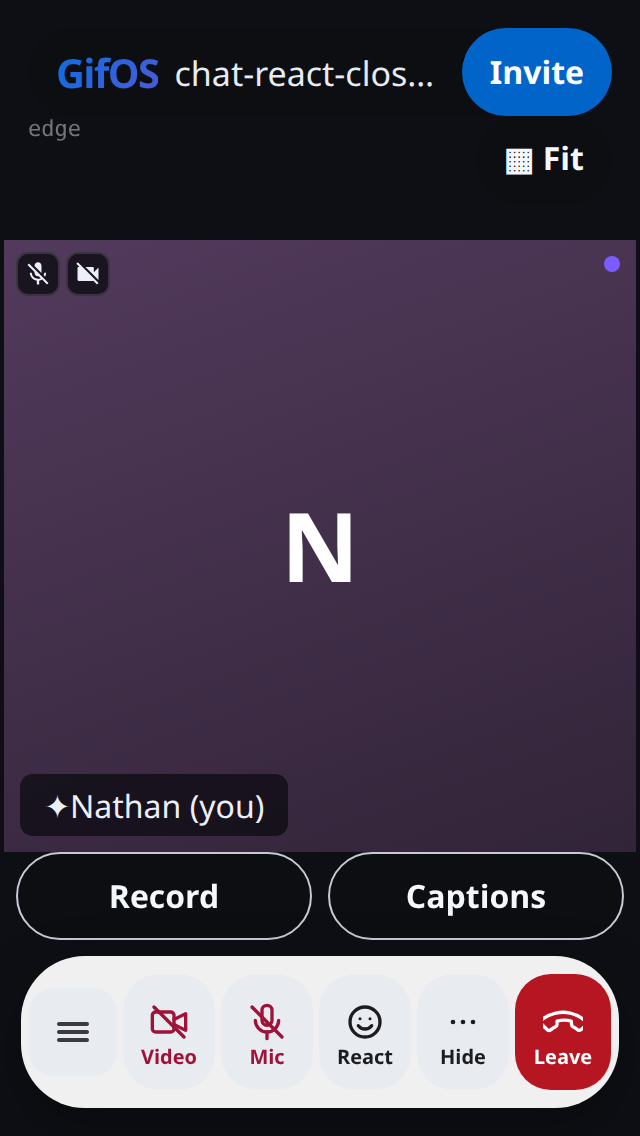
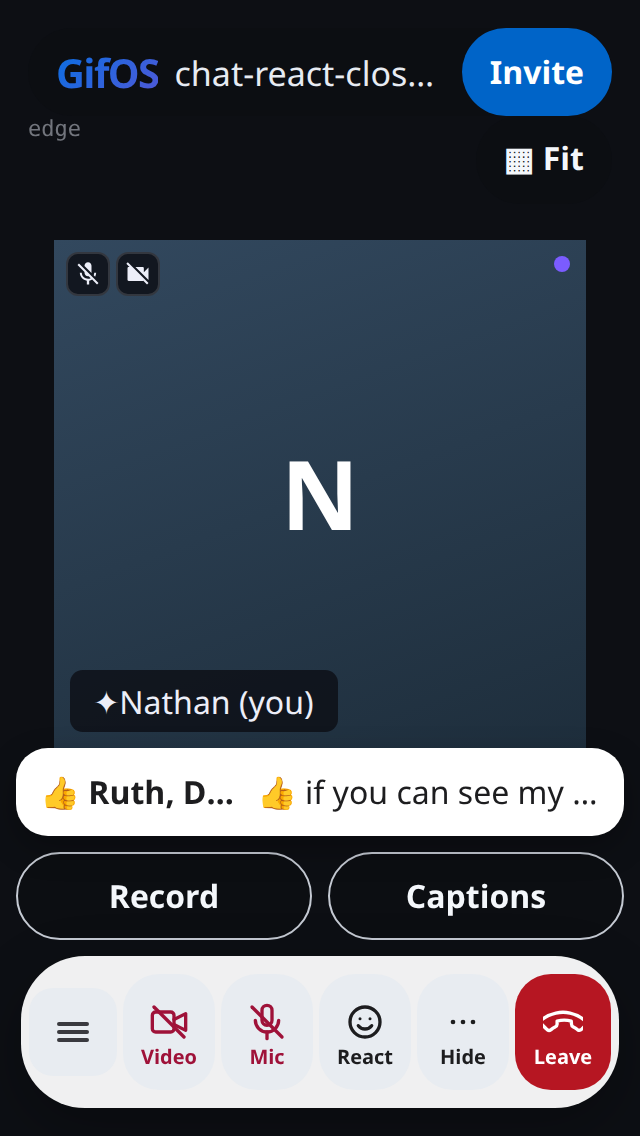
Meet: a reaction to your line shows on the call while chat is closed.
A presenter who asks '👍 if you can see my slides' and closes chat now
sees '👍 Ruth, David' with the line above the dock (three or more read
'Ruth +2'). A tap opens chat; it is not counted as a new message, and
reactions to other people's lines stay quiet. The repro gains a line from
David so he is named as he would be in a call; it still fails at 8ee30a0.
test/mobile/chat-react-closed.js passes on Chromium (test/mobile 70/70)
and WebKit (with chat-react/who/preview/badge/mention-alert).

diff --git a/run.html b/run.html
@@ -1634,6 +1634,8 @@ requestAnimationFrame(chk);setTimeout(show,1500);})();</script>
   #chatpreview.mention { background: #0064c8; color: #fff; }
   #chatpreview.mention b, #chatpreview.mention span { color: #fff; }
   #chatpreview.mention b { max-width: 58%; }
+  /* Who reacted is what the note is for; the line gives way first. */
+  #chatpreview.reacted b { flex-shrink: 0; max-width: 58%; }
   #chatbadge {
     flex: 0 0 auto;
     min-width: 44px; min-height: 44px; padding: 0 12px;
@@ -14516,6 +14518,9 @@ requestAnimationFrame(chk);setTimeout(show,1500);})();</script>
     let unread = 0;
     let lastChatLine = null;
     let mentionAlert = null;
+    // Someone reacted to your line while chat was closed: the call says so.
+    // It is not a new message, so the count stays as it was.
+    let reactAlert = null;
     let pendingReply = null;
     // Reactions: one emoji from a short list, per person, per line.
     // A frame counts only from the person it names (like taking back a line).
@@ -14560,6 +14565,20 @@ requestAnimationFrame(chk);setTimeout(show,1500);})();</script>
       }
       return true;
     }
+    function noteReactToMe(id, e, on) {
+      const line = chat.get(String(id));
+      if (!on || !line || line.byId !== myId) return;
+      if (chatPanel && chatPanel.classList.contains('open')) return;
+      const per = chatReacts.get(line.id);
+      const who = new Set(per && per.get(e) ? per.get(e) : []);
+      who.delete(myId);
+      if (!who.size) return;
+      // The call has room for two names; a third and on are "+2".
+      const names = reactorNames(who).split(', ');
+      const short = names.length > 2 ? names[0] + ' +' + (names.length - 1) : names.join(', ');
+      reactAlert = { by: names.join(', '), short: short, e: e, text: String(line.text || '').slice(0, 160) };
+      paintChatBadge();
+    }
     function myReactsObj() { // what I picked, replayed to a newcomer
       const o = {};
       for (const [id, per] of chatReacts) {
@@ -14594,13 +14613,18 @@ requestAnimationFrame(chk);setTimeout(show,1500);})();</script>
       const lob = document.getElementById('lobby');
       const inCall = !(lob && lob.classList.contains('show'));
       const open = !!(chatPanel && chatPanel.classList.contains('open'));
-      const show = inCall && unread > 0 && !open;
+      const show = inCall && (unread > 0 || !!reactAlert) && !open;
       const mention = !!(mentionAlert && !open);
       if (preview) preview.classList.toggle('mention', mention);
+      if (preview) preview.classList.toggle('reacted', !mention && !!reactAlert && !open);
       if (mention) {
         if (by) by.textContent = mentionAlert.by + ' mentioned you';
         if (txt) txt.textContent = mentionAlert.text;
         if (preview) preview.setAttribute('aria-label', mentionAlert.by + ' mentioned you. ' + mentionAlert.text + '. Open chat.');
+      } else if (reactAlert && !open) {
+        if (by) by.textContent = reactAlert.e + ' ' + reactAlert.short;
+        if (txt) txt.textContent = reactAlert.text;
+        if (preview) preview.setAttribute('aria-label', reactAlert.by + ' reacted ' + reactAlert.e + ' to ' + reactAlert.text + '. Open chat.');
       } else {
         if (by) by.textContent = lastChatLine ? lastChatLine.by : '';
         if (txt) txt.textContent = lastChatLine ? lastChatLine.text : '';
@@ -14608,7 +14632,7 @@ requestAnimationFrame(chk);setTimeout(show,1500);})();</script>
       }
       b.textContent = unread > 99 ? '99+' : String(Math.max(0, unread));
       b.setAttribute('aria-label', 'Chat, ' + unread + (unread === 1 ? ' new message' : ' new messages'));
-      b.hidden = !show;
+      b.hidden = !show || unread < 1;
       note.hidden = !show;
       const key = (note.hidden ? '0' : '1') + ':' + note.offsetWidth + ':' + note.offsetHeight;
       if (key !== paintChatBadge.key) {
@@ -14617,7 +14641,7 @@ requestAnimationFrame(chk);setTimeout(show,1500);})();</script>
       }
     }
     function countClosedChat(m) {
-      if (m) lastChatLine = { by: String(m.by || 'Someone').slice(0, 40), text: String(m.text || '').slice(0, 160) };
+      if (m) { lastChatLine = { by: String(m.by || 'Someone').slice(0, 40), text: String(m.text || '').slice(0, 160) }; reactAlert = null; }
       const open = !!(chatPanel && chatPanel.classList.contains('open'));
       // A mention of this person stays on the call until they open chat.
       // A later line must not hide it. Naming someone else is an ordinary preview.
@@ -14915,7 +14939,7 @@ requestAnimationFrame(chk);setTimeout(show,1500);})();</script>
         recvChatAck(m);
       } else if (m.k === 'creact') {
         // Only the person who reacted can put on or take off their reaction.
-        if (p && p.id && m.by === p.id && takeReact(m.id, m.e, m.by, !!m.on)) renderChat();
+        if (p && p.id && m.by === p.id && takeReact(m.id, m.e, m.by, !!m.on)) { renderChat(); noteReactToMe(m.id, m.e, !!m.on); }
       } else if (m.k === 'cdel') {
         // The author may take their own line back. That frame is accepted
         // only from their channel. Anyone else's copy is ignored.
@@ -16081,6 +16105,7 @@ requestAnimationFrame(chk);setTimeout(show,1500);})();</script>
       if (chatPanel.classList.contains('open')) {
         unread = 0;
         mentionAlert = null;
+        reactAlert = null;
         chatBtn.textContent = 'Chat';
         paintChatBadge();
         // The More sheet floats over the composer. Fold it so the field is the next tap.

diff --git a/test/mobile/chat-react-closed.js b/test/mobile/chat-react-closed.js
@@ -35,6 +35,7 @@ const SHOTS = path.join(__dirname, '..', '..', 'qa', 'mobile', 'shots');
     const c = window.__gifosChat;
     const t = Date.now() - 60000;
     c.frame('qa-ruth', { k: 'chat', m: { id: 'qa-r1', by: 'Ruth', byId: 'qa-ruth', at: t, text: 'ready when you are' } });
+    c.frame('qa-david', { k: 'chat', m: { id: 'qa-d1', by: 'David', byId: 'qa-david', at: t + 1000, text: 'me too' } });
   });
   await page.locator('#chat-in').fill('👍 if you can see my slides');
   await page.locator('#chat-in').press('Enter');
@@ -70,6 +71,7 @@ const SHOTS = path.join(__dirname, '..', '..', 'qa', 'mobile', 'shots');
       return {
         shown: !note.hidden && cs.display !== 'none' && r.width > 8 && r.height > 8,
         text: (pv.innerText || '').replace(/\s+/g, ' ').trim(),
+        cut: (() => { const b = document.getElementById('chatpreview-by'); return b.scrollWidth > b.clientWidth + 1; })(),
         label: pv.getAttribute('aria-label') || '',
         badge: badge.hidden ? '' : badge.textContent,
         chat: (document.getElementById('chatbtn').getAttribute('aria-label') || ''),
@@ -80,6 +82,7 @@ const SHOTS = path.join(__dirname, '..', '..', 'qa', 'mobile', 'shots');
     else {
       if (!/Ruth/.test(info.text) || !/David/.test(info.text)) bad.push('the call does not say who reacted ("' + info.text + '")');
       if (info.text.indexOf('👍') < 0) bad.push('the call does not show the 👍');
+      if (info.cut) bad.push('who reacted is cut off');
       if (!/slides/.test(info.text)) bad.push('the call does not say which line ("' + info.text + '")');
       if (!/Ruth/.test(info.label) || !/react/i.test(info.label)) bad.push('the note is read out as "' + info.label + '"');
       if (info.h < 44) bad.push('the note is ' + Math.round(info.h) + 'px tall');

diff --git a/BENCHMARK.md b/BENCHMARK.md
@@ -119,3 +119,4 @@ Family and friends. Warm, few steps, a texted link.
 60. A phone header never showed a message. `test/mobile/header-message.js` failed (`phone header reads "header-message", not the message`), then passed. A message such as No blur picked, a refusal, or Wrong admin password went only to the wide-window line, which a phone hides. Now the phone line shows it while it holds, then the room name comes back. `header-full.js` passes again. Audience scores stay 9 / 9 / 9. The phone line clips a long message with no "…". Nobody leads yet.
 61. A cut phone header message had no "…". `test/mobile/header-ellipsis.js` failed (`a cut message has no "…" (display flex …)`), then passed. The message text sits in its own span, which clips with "…", and the chip keeps its 44px tap. The caption tests tap CC first and pass again. Audience scores stay 9 / 9 / 9. Safari not checked. Nobody leads yet.
 62. A phone could not see who reacted to a line. `test/mobile/chat-react-who.js` failed (`the open line does not say who reacted`; the chip read out as `🙏 2`), then passed on Chromium and WebKit. A phone has no hover, so tapping a line now lists each reaction with names ("🙏 Ruth, David"; "You" first), and each chip is read out with its names. Someone who left is still named by a line they wrote. Church (who is praying), corporate (who approved with 👍) and personal all use this. Audience scores stay 9 / 9 / 9. Nobody leads yet.
+63. A reaction to your own line made no sound or sign while chat was closed. `test/mobile/chat-react-closed.js` failed (`nothing on the call says anyone reacted`), then passed on Chromium and WebKit. A presenter who types "👍 if you can see my slides" and closes chat, or a pastor who posts a prayer request, now sees "👍 Ruth, David" with the line on the call. Three or more names show as "Ruth +2". A tap opens chat, and it is not counted as a new message. Reactions to other people's lines stay quiet. Audience scores stay 9 / 9 / 9. Nobody leads yet.
